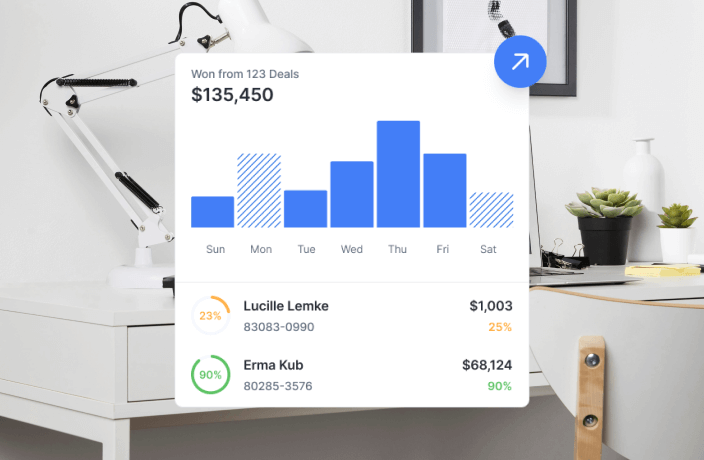
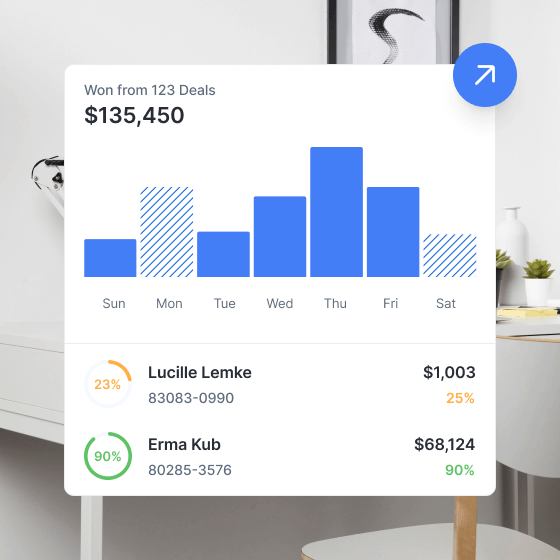
Feature bölümü merge yapmaya hazır hale getirildi.

diff --git a/style/index.css b/style/index.css
@@ -195,6 +195,21 @@ h5 {
 .featureImage{
     margin-bottom: 32px;
 }
+.featureTabletImage{
+    display: none;
+}
+.featureDesktopImage{
+    display: none;
+}
+.featuredGridItem2 .pSmall{
+    display: none;
+}
+.featuredGridItem .pSmall{
+    display: none;
+}
+.h3-none{
+    display: none;
+}
 .featureLists{
     margin-bottom: 32px;
 }
@@ -320,6 +335,16 @@ nav ul {
     .featureContainer p{
         text-align: center;
     }
+    .featureImage{
+        display: none;
+    }
+    .featureTabletImage{
+        display: block;
+        margin-bottom: 48px;
+    }
+    .featureDesktopImage{
+        display: none;
+    }
 
     /*-------------------------------------------------------------*/
     /*-------------------- Global Settings End --------------------*/
@@ -373,18 +398,48 @@ nav ul {
     .featureContainer h2{
         text-align: center;
     }
-    .featureContainer .pSmall{
-        
+    .featureContainer > .pSmall{
+        margin-left: auto;
+        margin-right: auto;
+        width: 800px;
+        margin-bottom: 64px;
     }
     .featureGrid{
         display: grid;
         grid-template-columns: 1fr 1fr;
         align-items: center;
+        column-gap: 102px;
+        padding-bottom: 64px;
+    }
+    .featureGrid h3{
+        font-weight: 600;
+        font-size: 32px;
+        line-height: 42px;
+        letter-spacing: -0.01em;
     }
     .featuredGridItem2{
         grid-area: 1/1/2/2;
     }
-
+    .featureDesktopImage{
+        display: block;
+    }
+    .featureGridItem1 .featureImage{
+        display: none;
+    }
+    .featuredGridItem2 .pSmall{
+        display: block;
+        text-align: start;
+    }
+    .featuredGridItem .pSmall{
+        display: block;
+        text-align: start;
+    }
+    .h3-none{
+        display: block;
+    }
+    .featuredGridItem h3:first-child{
+        display: none;
+    }
     /*-------------------------------------------------------------*/
     /*-------------------- Global Settings End --------------------*/
     /*-------------------------------------------------------------*/

diff --git a/index.html b/index.html
@@ -91,9 +91,14 @@
             <div class="featureGrid">
                 <div class="featureGridItem1">
             <img src="src/image/png/featureImages.png" class="featureImage" alt="Feature Images">
+            <img src="src/image/png/featureTabletImages.png" class="featureTabletImage" alt="Feature Tablet Images">
+            <img src="src/image/png/featureDesktopImages.png" class="featureDesktopImage" alt="Feature Desktop Images">
             </div>
             <div class="featuredGridItem2">
             <h3>Demonstrate branding consequently think outside</h3>
+            <p class="pSmall">Velit purus egestas tellus phasellus. Mattis eget sed faucibus magna vulputate pellentesque a diam tincidunt. 
+                Aenean malesuada tellus tellus faucibus mauris quisque mauris in.
+            </p>
             <div class="featureLists">
                 <div class="featureList">
                     <img src="src/image/icon/featuredIcons.svg" alt="Feature Icons">
@@ -114,9 +119,14 @@
     <div class="featureGrid">
         <div class="featuredGridItem">
             <img src="src/image/png/featureImages.png" class="featureImage" alt="Feature Images">
+            <img src="src/image/png/featureTabletImages.png" class="featureTabletImage" alt="Feature Tablet Images">
         </div>
         <div class="featuredGridItem">
             <h3>Demonstrate branding consequently think outside</h3>
+            <h3 class="h3-none">Demonstrate branding consequently think outside the box and beyond</h3>
+            <p class="pSmall">Velit purus egestas tellus phasellus. Mattis eget sed faucibus magna vulputate pellentesque a diam tincidunt. 
+                Aenean malesuada tellus tellus faucibus mauris quisque mauris in.
+            </p>
             <div class="featureLists">
                 <div class="featureList">
                     <img src="src/image/icon/featuredIcons.svg" alt="Feature Icons">
